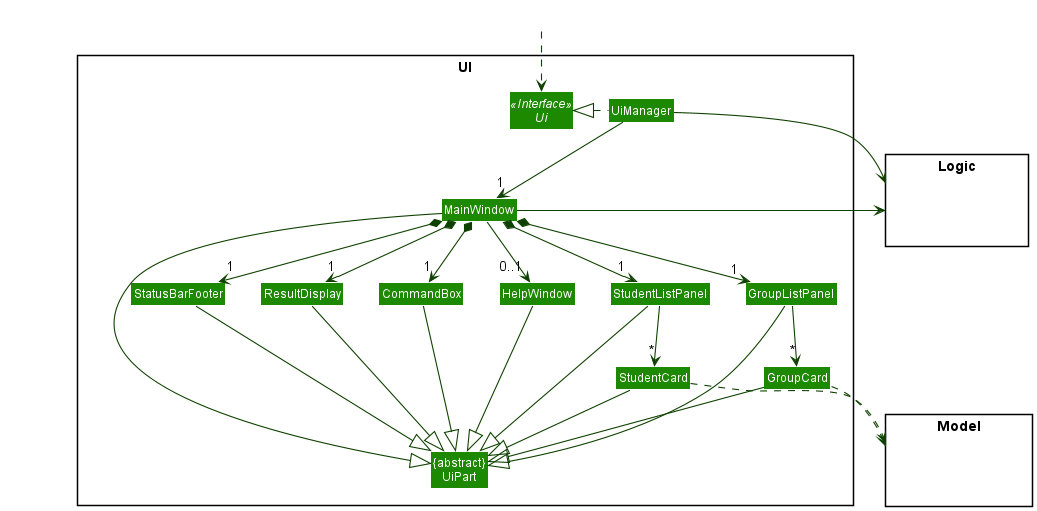
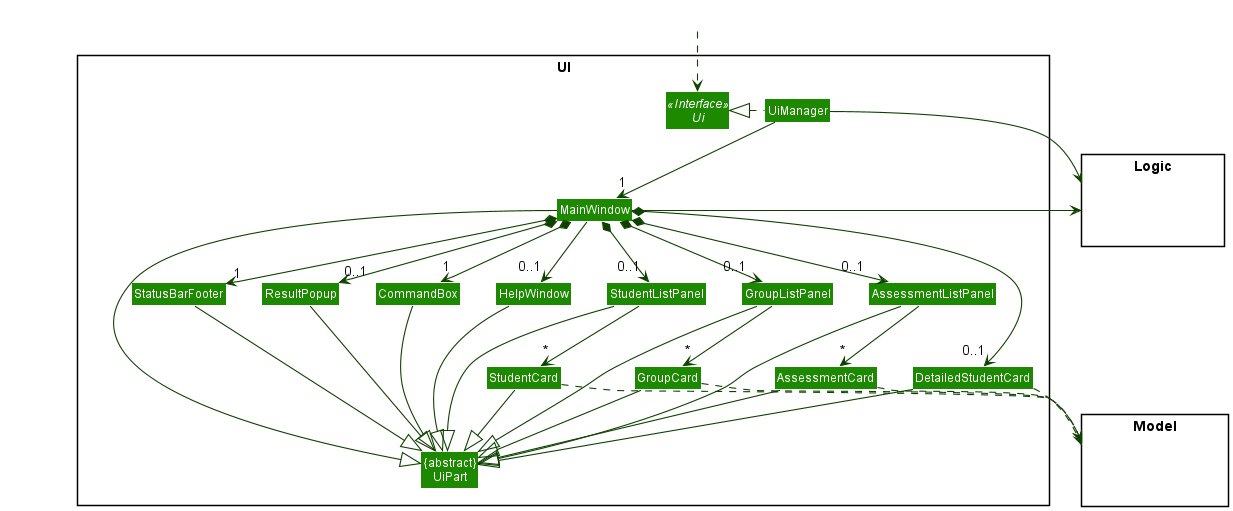
update ui class diagram and section on ui component

diff --git a/src/main/java/seedu/address/ui/MainWindow.java b/src/main/java/seedu/address/ui/MainWindow.java
@@ -38,6 +38,7 @@ public class MainWindow extends UiPart<Stage> {
     private DetailedStudentCard detailedStudentCard;
     private HelpWindow helpWindow;
     private ResultPopup resultPopup;
+
     @FXML
     private StackPane commandBoxPlaceholder;
 

diff --git a/docs/DeveloperGuide.md b/docs/DeveloperGuide.md
@@ -73,9 +73,19 @@ The sections below give more details of each component.
 
 The **API** of this component is specified in [`Ui.java`](https://github.com/AY2122S1-CS2103T-T09-3/tp/blob/master/src/main/java/seedu/address/ui/Ui.java)
 
-![Structure of the UI component](images/UiClassDiagram.png)
+![Structure of Ui Component](images/UiClassDiagram.png)
 
-The UI consists of a `MainWindow` that is made up of parts e.g.`CommandBox`, `ResultDisplay`, `StudentListPanel`, `GroupListPanel`, `StatusBarFooter` etc. All these, including the `MainWindow`, inherit from the abstract `UiPart` class which captures the commonalities between classes that represent parts of the visible GUI.
+The UI consists of a `MainWindow` that is made up of parts: `CommandBox`, `ResultPopup`, `StudentListPanel`, `GroupListPanel`, `DetailedStudentCard`, `AssessmentListPanel` and `StatusBarFooter`. 
+
+The `StudentListPanel` consists of a list of `StudentCard` objects, which displays the student's name and group they belong to. 
+
+The `GroupListPanel` consists of a list of `GroupCard` objects, which displays the group's name and description.
+
+The `AssessmentListPanel` consists of a list of `AssessmentCard` objects, which displays the assessment's name, score and percentage. 
+
+The `DetailedStudentCard` displays the student's name, group, telegram handle, email and notes. 
+
+All these, including the `MainWindow`, inherit from the abstract `UiPart` class which captures the commonalities between classes that represent parts of the visible GUI.
 
 The `UI` component uses the JavaFx UI framework. The layout of these UI parts are defined in matching `.fxml` files that are in the `src/main/resources/view` folder. For example, the layout of the [`MainWindow`](https://github.com/AY2122S1-CS2103T-T09-3/tp/blob/master/src/main/java/seedu/address/ui/MainWindow.java) is specified in [`MainWindow.fxml`](https://github.com/AY2122S1-CS2103T-T09-3/tp/blob/master/src/main/resources/view/MainWindow.fxml)
 
@@ -84,7 +94,7 @@ The `UI` component,
 - executes user commands using the `Logic` component.
 - listens for changes to `Model` data so that the UI can be updated with the modified data.
 - keeps a reference to the `Logic` component, because the `UI` relies on the `Logic` to execute commands.
-- depends on some classes in the `Model` component, as it displays `Student` and `Group` objects residing in the `Model`.
+- depends on some classes in the `Model` component, as it displays `Student`,`Group`, `Assessment` and `Note` objects residing in the `Model`.
 
 ### Logic component
 
